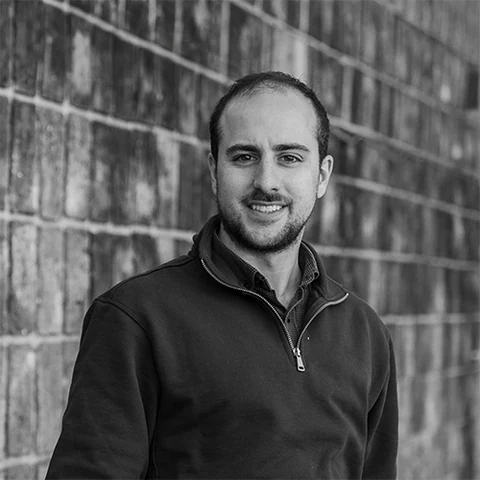
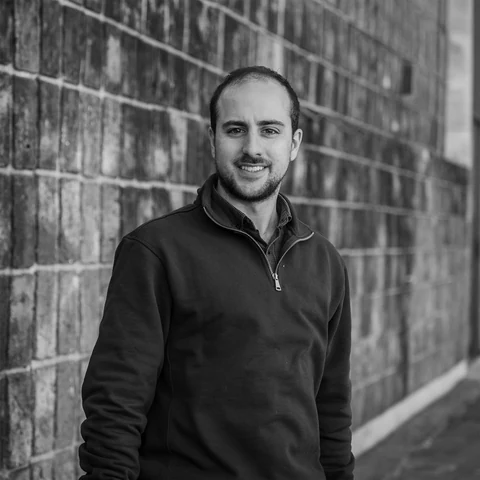
VFinal / Calidad foto jp

diff --git a/index.html b/index.html
@@ -9,7 +9,7 @@
   <title>NUDO Arquitectura</title>
   <link rel="canonical" href="https://nudoarq.uy/" />
   <link rel="icon" type="image/png" href="/img/faivcon%20192x192.png" />
-  <link rel="stylesheet" href="styles.css?v=20260729-director-hover-29" />
+  <link rel="stylesheet" href="styles.css?v=20260729-director-srcset-30" />
   <script type="application/ld+json">{
   "@context": "https://schema.org",
   "@type": "LocalBusiness",
@@ -45,7 +45,7 @@
   "priceRange": "$$",
   "description": "Estudio de arquitectura en Uruguay especializado en proyecto arquitectónico, documentación, dirección y gestión de obra."
 }</script>
-  <script type="module" src="src/main.js?v=20260729-director-hover-29"></script>
+  <script type="module" src="src/main.js?v=20260729-director-srcset-30"></script>
 </head>
 <body data-page="home">
   <div id="app">
@@ -485,8 +485,16 @@
           
     <div class="person__photo person__photo--one person__photo--has-hover">
       
-        <img class="person__image person__image--primary" src="optimized/img/directores/juan-pablo-500.webp" alt="Retrato de Juan Pablo Puletto, arquitecto director de NUDO Arquitectura" loading="lazy" decoding="async" width="500" height="500" />
-        <img class="person__image person__image--hover" src="optimized/img/directores/juan-pablo-02-500.webp" alt="Segundo retrato de Juan Pablo Puletto, arquitecto director de NUDO Arquitectura" loading="lazy" decoding="async" width="500" height="500" />
+        
+        <picture class="person__image person__image--primary">
+          <source type="image/webp" srcset="optimized/img/directores/juan-pablo-480.webp 480w, optimized/img/directores/juan-pablo-640.webp 640w, optimized/img/directores/juan-pablo-960.webp 960w, optimized/img/directores/juan-pablo-1280.webp 1280w, optimized/img/directores/juan-pablo-1600.webp 1600w, optimized/img/directores/juan-pablo-1920.webp 1920w, optimized/img/directores/juan-pablo-2000.webp 2000w" sizes="(max-width: 680px) 92vw, 38vw" />
+          <img src="optimized/img/directores/juan-pablo-2000.webp" alt="Retrato de Juan Pablo Puletto, arquitecto director de NUDO Arquitectura" loading="lazy" decoding="async" width="2000" height="2000" />
+        </picture>
+        
+        <picture class="person__image person__image--hover">
+          <source type="image/webp" srcset="optimized/img/directores/juan-pablo-02-480.webp 480w, optimized/img/directores/juan-pablo-02-500.webp 500w" sizes="(max-width: 680px) 92vw, 38vw" />
+          <img src="optimized/img/directores/juan-pablo-02-500.webp" alt="Segundo retrato de Juan Pablo Puletto, arquitecto director de NUDO Arquitectura" loading="lazy" decoding="async" width="500" height="500" />
+        </picture>
       
     </div>
   
@@ -496,7 +504,11 @@
           
     <div class="person__photo person__photo--two">
       
-        <img class="person__image person__image--primary" src="optimized/img/directores/joaquin-300.webp" alt="Retrato de Joaquín Rivera, arquitecto director de NUDO Arquitectura" loading="lazy" decoding="async" width="300" height="300" />
+        
+        <picture class="person__image person__image--primary">
+          <source type="image/webp" srcset="optimized/img/directores/joaquin-300.webp 300w" sizes="(max-width: 680px) 92vw, 38vw" />
+          <img src="optimized/img/directores/joaquin-300.webp" alt="Retrato de Joaquín Rivera, arquitecto director de NUDO Arquitectura" loading="lazy" decoding="async" width="300" height="300" />
+        </picture>
         
       
     </div>

diff --git a/src/components/site.js b/src/components/site.js
@@ -357,16 +357,26 @@ const directorPhotoExact = (assets, name) => {
   return assets.find(asset => normalizeAssetName(asset).split('/').pop().replace(/\.[a-z0-9]+$/i, '') === expected);
 };
 
-const PersonPhoto = ({ asset, hoverAsset, initials, alt, hoverAlt, modifier }) => {
+const PersonImage = ({ asset, className, alt }) => {
   const optimized = optimizedImages[asset];
-  const optimizedHover = optimizedImages[hoverAsset];
   const dimensions = optimized ? ` width="${optimized.width}" height="${optimized.height}"` : '';
-  const hoverDimensions = optimizedHover ? ` width="${optimizedHover.width}" height="${optimizedHover.height}"` : '';
+  const srcset = optimizedSrcset(asset);
+  if (optimized?.variants?.length && srcset) {
+    return `
+        <picture class="person__image ${className}">
+          <source type="image/webp" srcset="${srcset}" sizes="(max-width: 680px) 92vw, 38vw" />
+          <img src="${escapeHtml(optimizedFallback(asset))}" alt="${escapeHtml(alt)}" loading="lazy" decoding="async"${dimensions} />
+        </picture>`;
+  }
+  return `<img class="person__image ${className}" src="${escapeHtml(asset)}" alt="${escapeHtml(alt)}" loading="lazy" decoding="async"${dimensions} />`;
+};
+
+const PersonPhoto = ({ asset, hoverAsset, initials, alt, hoverAlt, modifier }) => {
   return `
     <div class="person__photo ${modifier}${hoverAsset ? ' person__photo--has-hover' : ''}">
       ${asset ? `
-        <img class="person__image person__image--primary" src="${escapeHtml(optimizedFallback(asset))}" alt="${escapeHtml(alt)}" loading="lazy" decoding="async"${dimensions} />
-        ${hoverAsset ? `<img class="person__image person__image--hover" src="${escapeHtml(optimizedFallback(hoverAsset))}" alt="${escapeHtml(hoverAlt || alt)}" loading="lazy" decoding="async"${hoverDimensions} />` : ''}
+        ${PersonImage({ asset, className: 'person__image--primary', alt })}
+        ${hoverAsset ? PersonImage({ asset: hoverAsset, className: 'person__image--hover', alt: hoverAlt || alt }) : ''}
       ` : `<span>${initials}</span><small>FOTOGRAFÍA PENDIENTE</small>`}
     </div>
   `;

diff --git a/proyecto-colegio-maturana.html b/proyecto-colegio-maturana.html
@@ -9,7 +9,7 @@
   <title>Colegio Maturana — NUDO Arquitectura</title>
   <link rel="canonical" href="https://nudoarq.uy/proyecto-colegio-maturana.html" />
   <link rel="icon" type="image/png" href="/img/faivcon%20192x192.png" />
-  <link rel="stylesheet" href="styles.css?v=20260729-director-hover-29" />
+  <link rel="stylesheet" href="styles.css?v=20260729-director-srcset-30" />
   <script type="application/ld+json">{
   "@context": "https://schema.org",
   "@type": "LocalBusiness",
@@ -45,7 +45,7 @@
   "priceRange": "$$",
   "description": "Estudio de arquitectura en Uruguay especializado en proyecto arquitectónico, documentación, dirección y gestión de obra."
 }</script>
-  <script type="module" src="src/main.js?v=20260729-director-hover-29"></script>
+  <script type="module" src="src/main.js?v=20260729-director-srcset-30"></script>
 </head>
 <body data-page="project" data-project-slug="colegio-maturana">
   <div id="app">

diff --git a/proyecto-punta-espinillo.html b/proyecto-punta-espinillo.html
@@ -9,7 +9,7 @@
   <title>Punta Espinillo — NUDO Arquitectura</title>
   <link rel="canonical" href="https://nudoarq.uy/proyecto-punta-espinillo.html" />
   <link rel="icon" type="image/png" href="/img/faivcon%20192x192.png" />
-  <link rel="stylesheet" href="styles.css?v=20260729-director-hover-29" />
+  <link rel="stylesheet" href="styles.css?v=20260729-director-srcset-30" />
   <script type="application/ld+json">{
   "@context": "https://schema.org",
   "@type": "LocalBusiness",
@@ -45,7 +45,7 @@
   "priceRange": "$$",
   "description": "Estudio de arquitectura en Uruguay especializado en proyecto arquitectónico, documentación, dirección y gestión de obra."
 }</script>
-  <script type="module" src="src/main.js?v=20260729-director-hover-29"></script>
+  <script type="module" src="src/main.js?v=20260729-director-srcset-30"></script>
 </head>
 <body data-page="project" data-project-slug="punta-espinillo">
   <div id="app">

diff --git a/proyecto-reforma-nelson.html b/proyecto-reforma-nelson.html
@@ -9,7 +9,7 @@
   <title>Reforma Nelson — NUDO Arquitectura</title>
   <link rel="canonical" href="https://nudoarq.uy/proyecto-reforma-nelson.html" />
   <link rel="icon" type="image/png" href="/img/faivcon%20192x192.png" />
-  <link rel="stylesheet" href="styles.css?v=20260729-director-hover-29" />
+  <link rel="stylesheet" href="styles.css?v=20260729-director-srcset-30" />
   <script type="application/ld+json">{
   "@context": "https://schema.org",
   "@type": "LocalBusiness",
@@ -45,7 +45,7 @@
   "priceRange": "$$",
   "description": "Estudio de arquitectura en Uruguay especializado en proyecto arquitectónico, documentación, dirección y gestión de obra."
 }</script>
-  <script type="module" src="src/main.js?v=20260729-director-hover-29"></script>
+  <script type="module" src="src/main.js?v=20260729-director-srcset-30"></script>
 </head>
 <body data-page="project" data-project-slug="reforma-nelson">
   <div id="app">

diff --git a/proyecto-ingreso-berro.html b/proyecto-ingreso-berro.html
@@ -9,7 +9,7 @@
   <title>Ingreso Berro — NUDO Arquitectura</title>
   <link rel="canonical" href="https://nudoarq.uy/proyecto-ingreso-berro.html" />
   <link rel="icon" type="image/png" href="/img/faivcon%20192x192.png" />
-  <link rel="stylesheet" href="styles.css?v=20260729-director-hover-29" />
+  <link rel="stylesheet" href="styles.css?v=20260729-director-srcset-30" />
   <script type="application/ld+json">{
   "@context": "https://schema.org",
   "@type": "LocalBusiness",
@@ -45,7 +45,7 @@
   "priceRange": "$$",
   "description": "Estudio de arquitectura en Uruguay especializado en proyecto arquitectónico, documentación, dirección y gestión de obra."
 }</script>
-  <script type="module" src="src/main.js?v=20260729-director-hover-29"></script>
+  <script type="module" src="src/main.js?v=20260729-director-srcset-30"></script>
 </head>
 <body data-page="project" data-project-slug="ingreso-berro">
   <div id="app">

diff --git a/proyecto-classic-cars.html b/proyecto-classic-cars.html
@@ -9,7 +9,7 @@
   <title>Classic Cars — NUDO Arquitectura</title>
   <link rel="canonical" href="https://nudoarq.uy/proyecto-classic-cars.html" />
   <link rel="icon" type="image/png" href="/img/faivcon%20192x192.png" />
-  <link rel="stylesheet" href="styles.css?v=20260729-director-hover-29" />
+  <link rel="stylesheet" href="styles.css?v=20260729-director-srcset-30" />
   <script type="application/ld+json">{
   "@context": "https://schema.org",
   "@type": "LocalBusiness",
@@ -45,7 +45,7 @@
   "priceRange": "$$",
   "description": "Estudio de arquitectura en Uruguay especializado en proyecto arquitectónico, documentación, dirección y gestión de obra."
 }</script>
-  <script type="module" src="src/main.js?v=20260729-director-hover-29"></script>
+  <script type="module" src="src/main.js?v=20260729-director-srcset-30"></script>
 </head>
 <body data-page="project" data-project-slug="classic-cars">
   <div id="app">

diff --git a/proyecto-delta-riego.html b/proyecto-delta-riego.html
@@ -9,7 +9,7 @@
   <title>Delta Riego — NUDO Arquitectura</title>
   <link rel="canonical" href="https://nudoarq.uy/proyecto-delta-riego.html" />
   <link rel="icon" type="image/png" href="/img/faivcon%20192x192.png" />
-  <link rel="stylesheet" href="styles.css?v=20260729-director-hover-29" />
+  <link rel="stylesheet" href="styles.css?v=20260729-director-srcset-30" />
   <script type="application/ld+json">{
   "@context": "https://schema.org",
   "@type": "LocalBusiness",
@@ -45,7 +45,7 @@
   "priceRange": "$$",
   "description": "Estudio de arquitectura en Uruguay especializado en proyecto arquitectónico, documentación, dirección y gestión de obra."
 }</script>
-  <script type="module" src="src/main.js?v=20260729-director-hover-29"></script>
+  <script type="module" src="src/main.js?v=20260729-director-srcset-30"></script>
 </head>
 <body data-page="project" data-project-slug="delta-riego">
   <div id="app">

diff --git a/proyecto-alfalider.html b/proyecto-alfalider.html
@@ -9,7 +9,7 @@
   <title>Alfalider — NUDO Arquitectura</title>
   <link rel="canonical" href="https://nudoarq.uy/proyecto-alfalider.html" />
   <link rel="icon" type="image/png" href="/img/faivcon%20192x192.png" />
-  <link rel="stylesheet" href="styles.css?v=20260729-director-hover-29" />
+  <link rel="stylesheet" href="styles.css?v=20260729-director-srcset-30" />
   <script type="application/ld+json">{
   "@context": "https://schema.org",
   "@type": "LocalBusiness",
@@ -45,7 +45,7 @@
   "priceRange": "$$",
   "description": "Estudio de arquitectura en Uruguay especializado en proyecto arquitectónico, documentación, dirección y gestión de obra."
 }</script>
-  <script type="module" src="src/main.js?v=20260729-director-hover-29"></script>
+  <script type="module" src="src/main.js?v=20260729-director-srcset-30"></script>
 </head>
 <body data-page="project" data-project-slug="alfalider">
   <div id="app">

diff --git a/proyecto-araruama.html b/proyecto-araruama.html
@@ -9,7 +9,7 @@
   <title>Araruama — NUDO Arquitectura</title>
   <link rel="canonical" href="https://nudoarq.uy/proyecto-araruama.html" />
   <link rel="icon" type="image/png" href="/img/faivcon%20192x192.png" />
-  <link rel="stylesheet" href="styles.css?v=20260729-director-hover-29" />
+  <link rel="stylesheet" href="styles.css?v=20260729-director-srcset-30" />
   <script type="application/ld+json">{
   "@context": "https://schema.org",
   "@type": "LocalBusiness",
@@ -45,7 +45,7 @@
   "priceRange": "$$",
   "description": "Estudio de arquitectura en Uruguay especializado en proyecto arquitectónico, documentación, dirección y gestión de obra."
 }</script>
-  <script type="module" src="src/main.js?v=20260729-director-hover-29"></script>
+  <script type="module" src="src/main.js?v=20260729-director-srcset-30"></script>
 </head>
 <body data-page="project" data-project-slug="araruama">
   <div id="app">

diff --git a/proyecto-matisse.html b/proyecto-matisse.html
@@ -9,7 +9,7 @@
   <title>Matisse — NUDO Arquitectura</title>
   <link rel="canonical" href="https://nudoarq.uy/proyecto-matisse.html" />
   <link rel="icon" type="image/png" href="/img/faivcon%20192x192.png" />
-  <link rel="stylesheet" href="styles.css?v=20260729-director-hover-29" />
+  <link rel="stylesheet" href="styles.css?v=20260729-director-srcset-30" />
   <script type="application/ld+json">{
   "@context": "https://schema.org",
   "@type": "LocalBusiness",
@@ -45,7 +45,7 @@
   "priceRange": "$$",
   "description": "Estudio de arquitectura en Uruguay especializado en proyecto arquitectónico, documentación, dirección y gestión de obra."
 }</script>
-  <script type="module" src="src/main.js?v=20260729-director-hover-29"></script>
+  <script type="module" src="src/main.js?v=20260729-director-srcset-30"></script>
 </head>
 <body data-page="project" data-project-slug="matisse">
   <div id="app">

diff --git a/proyectos.html b/proyectos.html
@@ -9,7 +9,7 @@
   <title>Proyectos — NUDO Arquitectura</title>
   <link rel="canonical" href="https://nudoarq.uy/proyectos.html" />
   <link rel="icon" type="image/png" href="/img/faivcon%20192x192.png" />
-  <link rel="stylesheet" href="styles.css?v=20260729-director-hover-29" />
+  <link rel="stylesheet" href="styles.css?v=20260729-director-srcset-30" />
   <script type="application/ld+json">{
   "@context": "https://schema.org",
   "@type": "LocalBusiness",
@@ -45,7 +45,7 @@
   "priceRange": "$$",
   "description": "Estudio de arquitectura en Uruguay especializado en proyecto arquitectónico, documentación, dirección y gestión de obra."
 }</script>
-  <script type="module" src="src/main.js?v=20260729-director-hover-29"></script>
+  <script type="module" src="src/main.js?v=20260729-director-srcset-30"></script>
 </head>
 <body data-page="projects">
   <div id="app">
